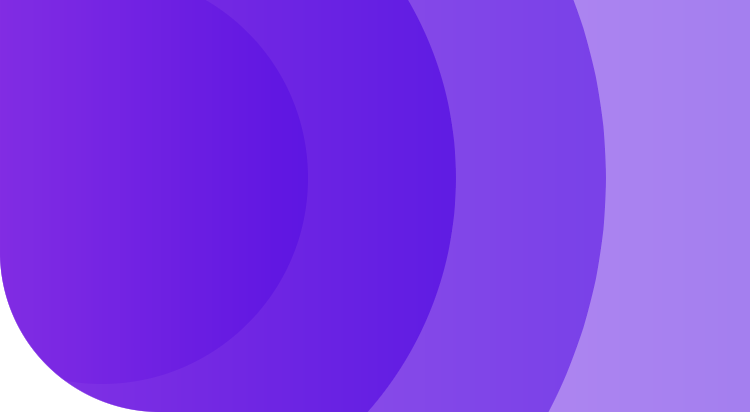
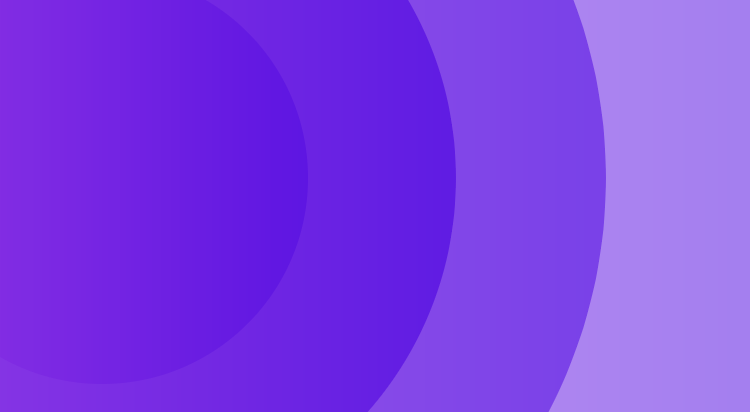
Chỉnh Profile

Changed region(s): [[0.0, 0.6699, 0.2147, 1.0]]

diff --git a/src/components/profile/profile.vue b/src/components/profile/profile.vue
@@ -8,8 +8,8 @@
             </div>
         </div>
         <div class="prf_info">
-            <p class="prf_profileName">dinhluan113</p>
-            <p class="prf_profileEmail">nguyendinhluan19@gmail.com</p>
+            <p class="prf_profileName">{{ this.userName }}</p>
+            <p class="prf_profileEmail" style="color: green">Online</p>
         </div>
         <div class="prf_AccountInfo">
             <p class="prf_AccountInfo_title">Account Info</p>
@@ -17,14 +17,14 @@
                 <div class="prf_AccountInfo_col1"><i class="fa fa-hourglass-start"></i></div>
                 <div class="prf_AccountInfo_col2">
                     <strong>Date created</strong>
-                    <p>20/12/2019</p>
+                    <p>{{ this.dateCreated }}</p>
                 </div>
             </div>
             <div class="prf_AccountInfo_Group">
                 <div class="prf_AccountInfo_col1"><i class="fa fa-hourglass-end"></i></div>
                 <div class="prf_AccountInfo_col2">
                     <strong>Expiration Date</strong>
-                    <p>20/12/2022</p>
+                    <p>{{ this.expirationDate }}</p>
                 </div>
             </div>
             <div class="prf_AccountInfo_Group">
@@ -41,14 +41,14 @@
                 <div class="prf_AccountInfo_col1"><i class="fa fa-file-contract"></i></div>
                 <div class="prf_AccountInfo_col2">
                     <strong>Total contracts:</strong>
-                    <p>00000</p>
+                    <p>{{ this.totalContracts }}</p>
                 </div>
             </div>
             <div class="prf_AccountInfo_Group">
                 <div class="prf_AccountInfo_col1"><i class="fa fa-user-friends"></i></div>
                 <div class="prf_AccountInfo_col2">
                     <strong>Total employees:</strong>
-                    <p>00000</p>
+                    <p>{{ this.totalEmployer }}</p>
                 </div>
             </div>
             <div class="prf_AccountInfo_Group">
@@ -58,22 +58,60 @@
                 </div>
             </div>
         </div>
+        <confirmBox @deleteObject="logout($event)" :isShowing.sync="this.isShowPopupDelete" title="Are you sure you want to continue?" />
+        <loading v-if="this.isShowLoading" themeName="lds-dual-ring"></loading>
     </div>
 </template>
 <script>
+    import loading from '@/components/shared/loading.vue'
+
+    import confirmBox from '@/components/shared/popupDelete.vue'
+
+    import { RepositoryFactory } from '@/repositories/RepositoryFactory'
+    const UserRepository = RepositoryFactory.get('users')
+
     export default {
+        components: {
+            loading,
+            confirmBox
+        },
         data: function () {
             return {
-                Model: null
+                isShowLoading: false,
+                isShowPopupDelete: false,
+                userName: "",
+                dateCreated: "",
+                expirationDate: "",
+                totalContracts: 0,
+                totalEmployer: 0
             }
         },
         mounted() {
-
+            let self = this;
+            this.isShowLoading = true;
+            let promise = UserRepository.get(localStorage.getItem('userss'));
+            promise
+                .then(function (response) {
+                    if (response.data != null) {
+                        self.userName = response.data.userName;
+                        self.dateCreated = response.data.dateCreated;
+                        self.expirationDate = response.data.expirationDate;
+                        self.totalContracts = response.data.totalContracts;
+                        self.totalEmployer = response.data.totalEmployer;
+                    }
+                    return response;
+                })
+                .catch(function () {
+                    alert("An error occurred, please try again later.");
+                    this.$router.push('/', () => { });
+                })
+                .finally(function () {
+                    self.isShowLoading = false;
+                })
         },
         methods: {
-            logout() {
-                let r = confirm("Are you sure to logout!");
-                if (r == true) {
+            logout(res) {
+                if (res) {
                     localStorage.removeItem('user');
                     localStorage.removeItem('jwt');
                     this.$router.push('/', () => { });
@@ -86,10 +124,6 @@
 <style>
     #profile {
         background-color: #f1ebfb;
-        height: calc(100vh - 62px);
-        height: -webkit-calc(100vh - 62px);
-        height: -moz-calc(100vh - 62px);
-        overflow-y: scroll;
     }
 
         #profile .prf_header {
@@ -97,7 +131,6 @@
             height: 200px;
             background-size: cover;
             background-repeat: no-repeat;
-            border-bottom-left-radius: 7em;
             text-align: left;
             color: #fff;
             position: relative;

diff --git a/src/components/contract/Contract_Edit.vue b/src/components/contract/Contract_Edit.vue
@@ -133,9 +133,8 @@
                         return rs2;
                     });
                 })
-                .catch(function (error) {
-                    alert("Đã có lỗi xảy ra vui lòng thử lại sau.");
-                    console.log(error);
+                .catch(function () {
+                    alert("An error occurred, please try again later.");
                 })
                 .finally(function () {
                     self.isShowLoading = false;
@@ -177,8 +176,7 @@
                         return response;
                     })
                     .catch(function (error) {
-                        alert("Đã có lỗi xảy ra vui lòng thử lại sau.");
-                        console.log(error);
+                        alert("An error occurred, please try again later.");
                         if (error.response.status === 401)
                             self.$router.push("/login");
                     })

diff --git a/src/components/contract/Contract_Add.vue b/src/components/contract/Contract_Add.vue
@@ -123,9 +123,8 @@
                     }
                     return response;
                 })
-                .catch(function (error) {
-                    alert("Đã có lỗi xảy ra vui lòng thử lại sau.");
-                    console.log(error);
+                .catch(function () {
+                    alert("An error occurred, please try again later.");
                 })
                 .finally(function () {
                     self.isShowLoading = false;
@@ -167,8 +166,7 @@
                         return response;
                     })
                     .catch(function (error) {
-                        alert("Đã có lỗi xảy ra vui lòng thử lại sau.");
-                        console.log(error);
+                        alert("An error occurred, please try again later.");
                         if (error.response.status === 401)
                             self.$router.push("/login");
                     })

diff --git a/src/components/shared/login.vue b/src/components/shared/login.vue
@@ -60,11 +60,16 @@ export default {
             if (this.validateUsername() && this.validatePassword()) {
                 this.isShowLoading = true;
                 let self = this;
-                let promise = UsersRepository.checkExist(this.userName, this.password);
+                let dto = {
+                    UserName: this.userName,
+                    Password: this.password
+                };
+                let promise = UsersRepository.checkExist(dto);
                 promise
                     .then(function(response) {
                         if (response.data.statusCode != 404) {
                             localStorage.setItem('user', response.data.username)
+                            localStorage.setItem('userss', response.data.userss)
                             localStorage.setItem('jwt', response.data.token)
 
                             if (localStorage.getItem('jwt') != null) {

diff --git a/src/repositories/usersRepository.js b/src/repositories/usersRepository.js
@@ -1,11 +1,21 @@
 import Repository from "./Repository";
 
-const resource = "/AiaUsers";
+const resource = "/aiausers";
 export default {
-    get() {
-        return Repository.get(`${resource}/GetAll`);
+    get(id) {
+        return Repository.get(`${resource}/${id}`, {
+            'headers': {
+                Authorization: 'Bearer ' + localStorage.getItem('jwt')
+            },
+            crossDomain: true
+        });
     },
-    checkExist(username, password) {
-        return Repository.get(`${resource}/CheckUser?username=${username}&password=${password}`);
+    checkExist(user) {
+        return Repository.post(`${resource}`, user, {
+            headers: {
+                'method': 'POST',
+            },
+            crossDomain: true
+        })
     },
 };

diff --git a/src/components/employees/Employer_Edit.vue b/src/components/employees/Employer_Edit.vue
@@ -151,8 +151,7 @@
                             return response;
                         })
                         .catch(function (error) {
-                            alert("Đã có lỗi xảy ra vui lòng thử lại sau.");
-                            console.log(error);
+                            alert("An error occurred, please try again later.");
                             if (error.response.status === 401)
                                 self.$router.push("/login");
                         })

diff --git a/src/components/contract/Contracts.vue b/src/components/contract/Contracts.vue
@@ -71,9 +71,8 @@
                     self.crrPageIndex = 0;
                     self.loadContractsGetAll();
                 })
-                .catch(function (error) {
-                    alert("Đã có lỗi xảy ra vui lòng thử lại sau.");
-                    console.log(error);
+                .catch(function () {
+                    alert("An error occurred, please try again later.");
                 })
                 .finally(function () {
                 });

diff --git a/src/components/employees/Employees.vue b/src/components/employees/Employees.vue
@@ -46,8 +46,7 @@
                         return response;
                     })
                     .catch(function (error) {
-                        alert("Đã có lỗi xảy ra vui lòng thử lại sau.");
-                        console.log(error);
+                        alert("An error occurred, please try again later.");
                         if (error.response.status === 401)
                             self.$router.push("/login");
                     })

diff --git a/src/components/employees/Employer_Add.vue b/src/components/employees/Employer_Add.vue
@@ -101,8 +101,7 @@ export default {
                     return response;
                 })
                 .catch(function(error) {
-                    alert("Đã có lỗi xảy ra vui lòng thử lại sau.");
-                    console.log(error);
+                    alert("An error occurred, please try again later.");
                     if (error.response.status === 401)
                         self.$router.push("/login");
                 })
